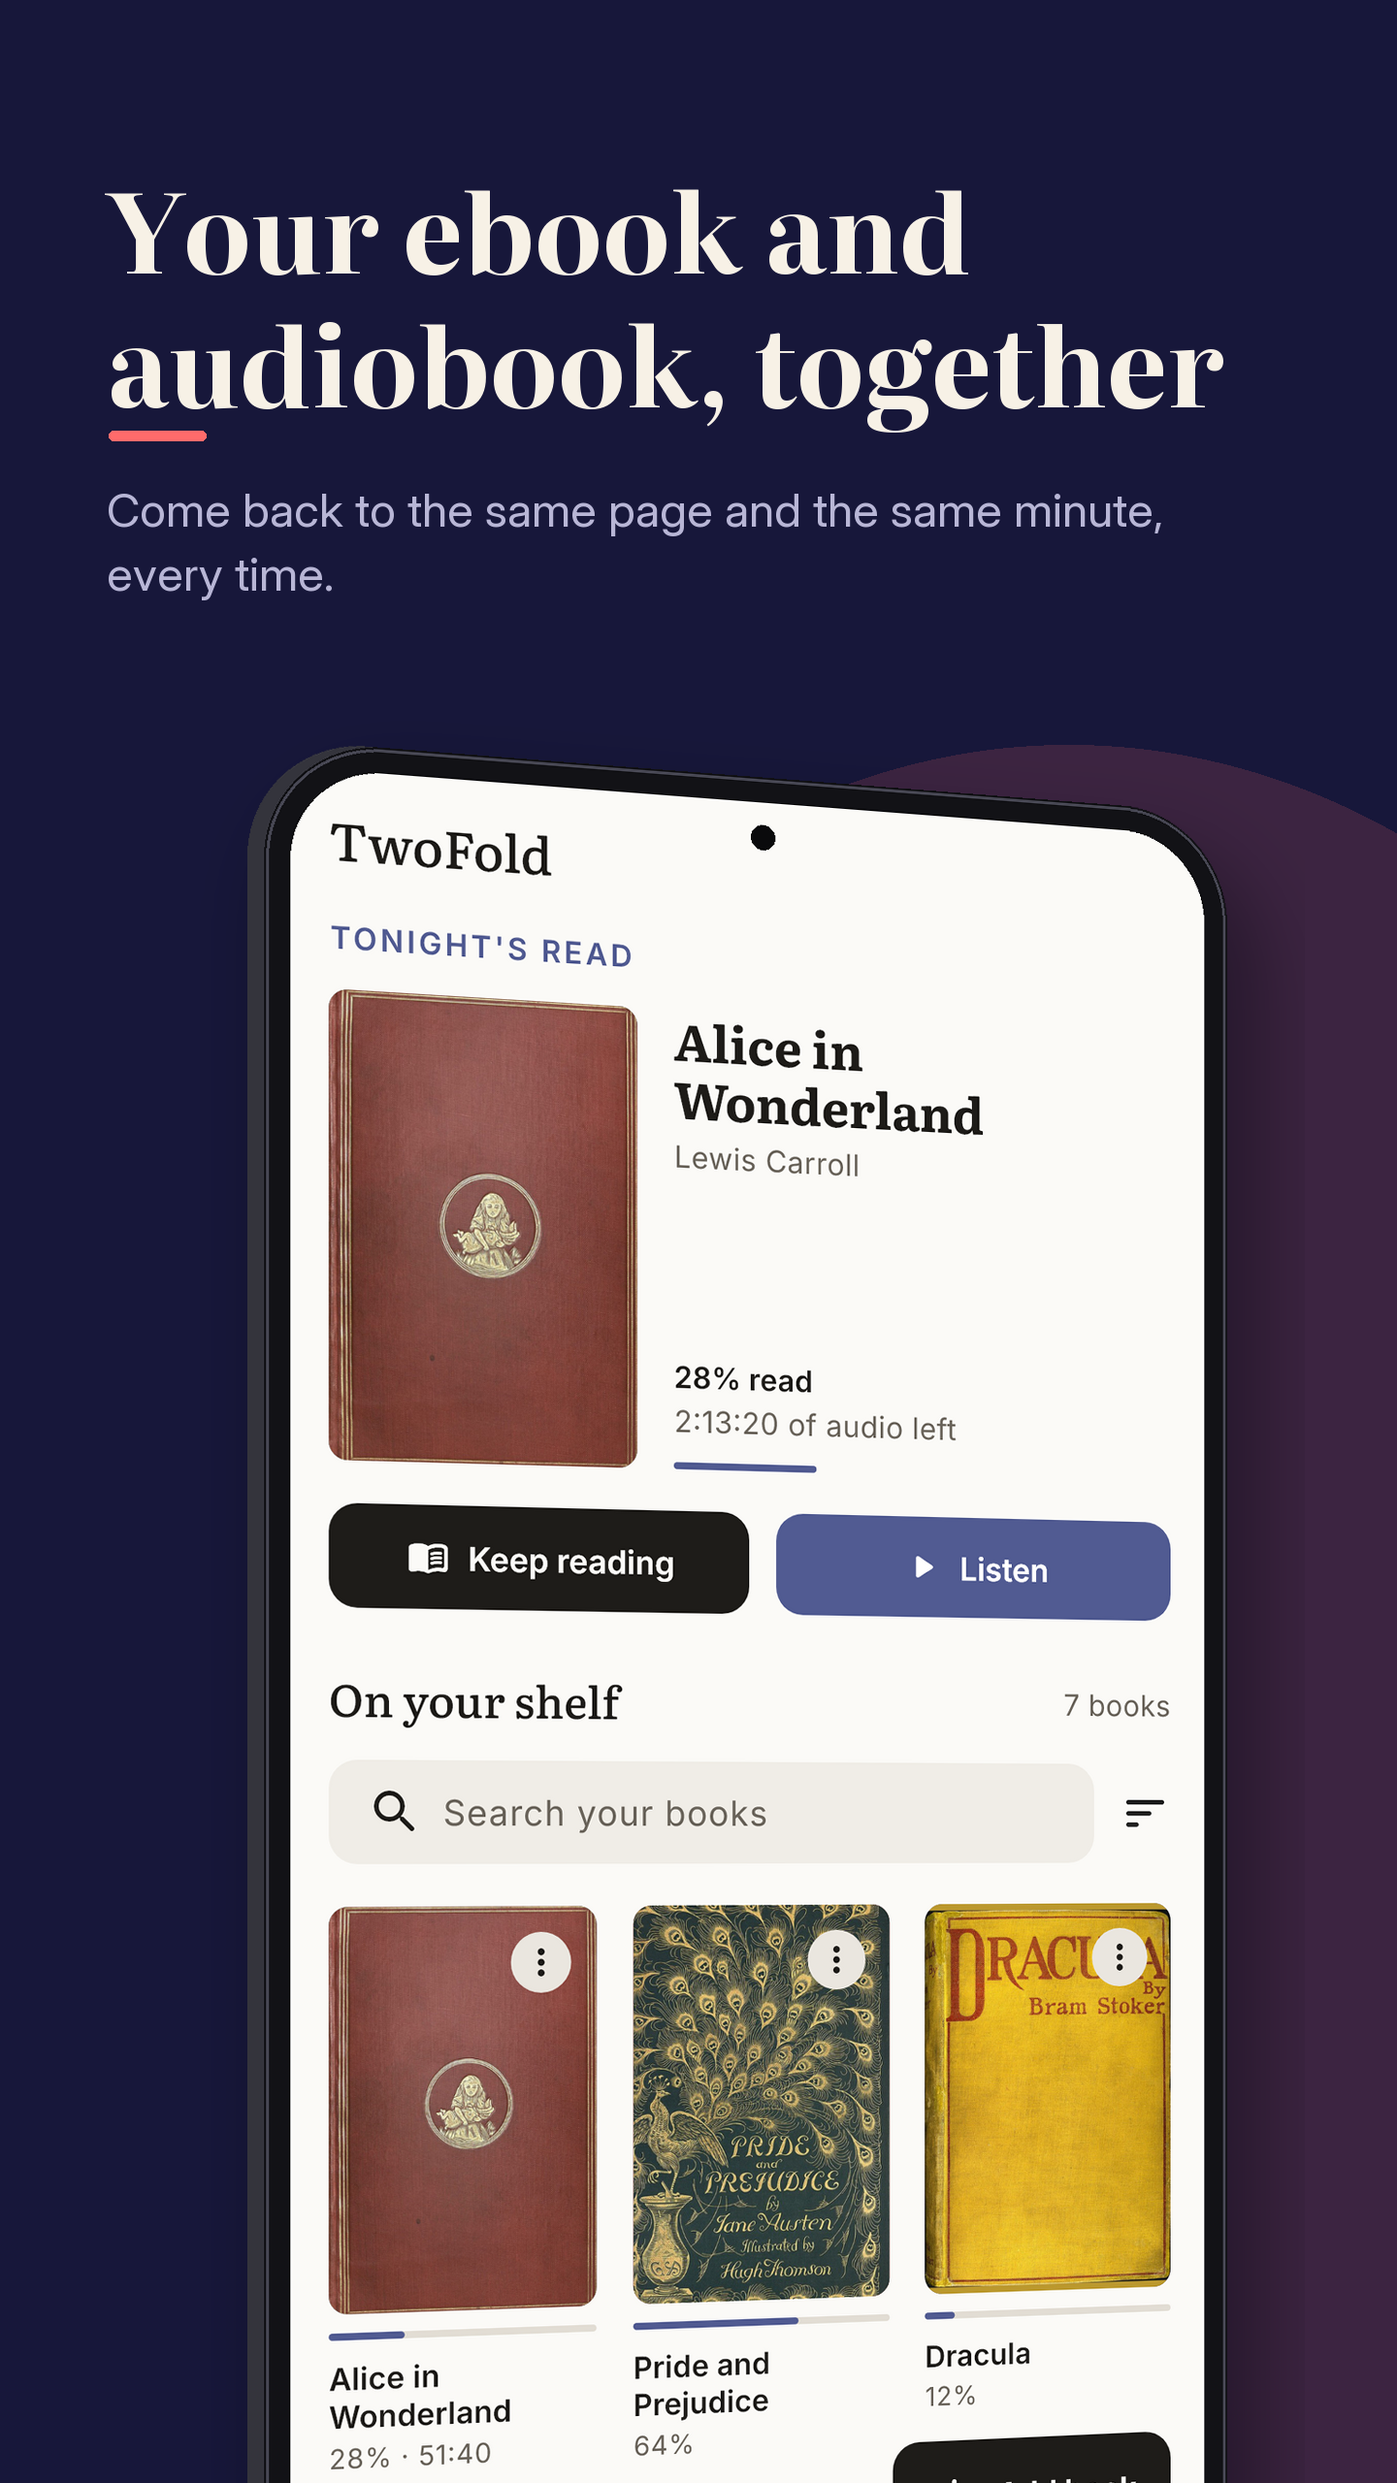
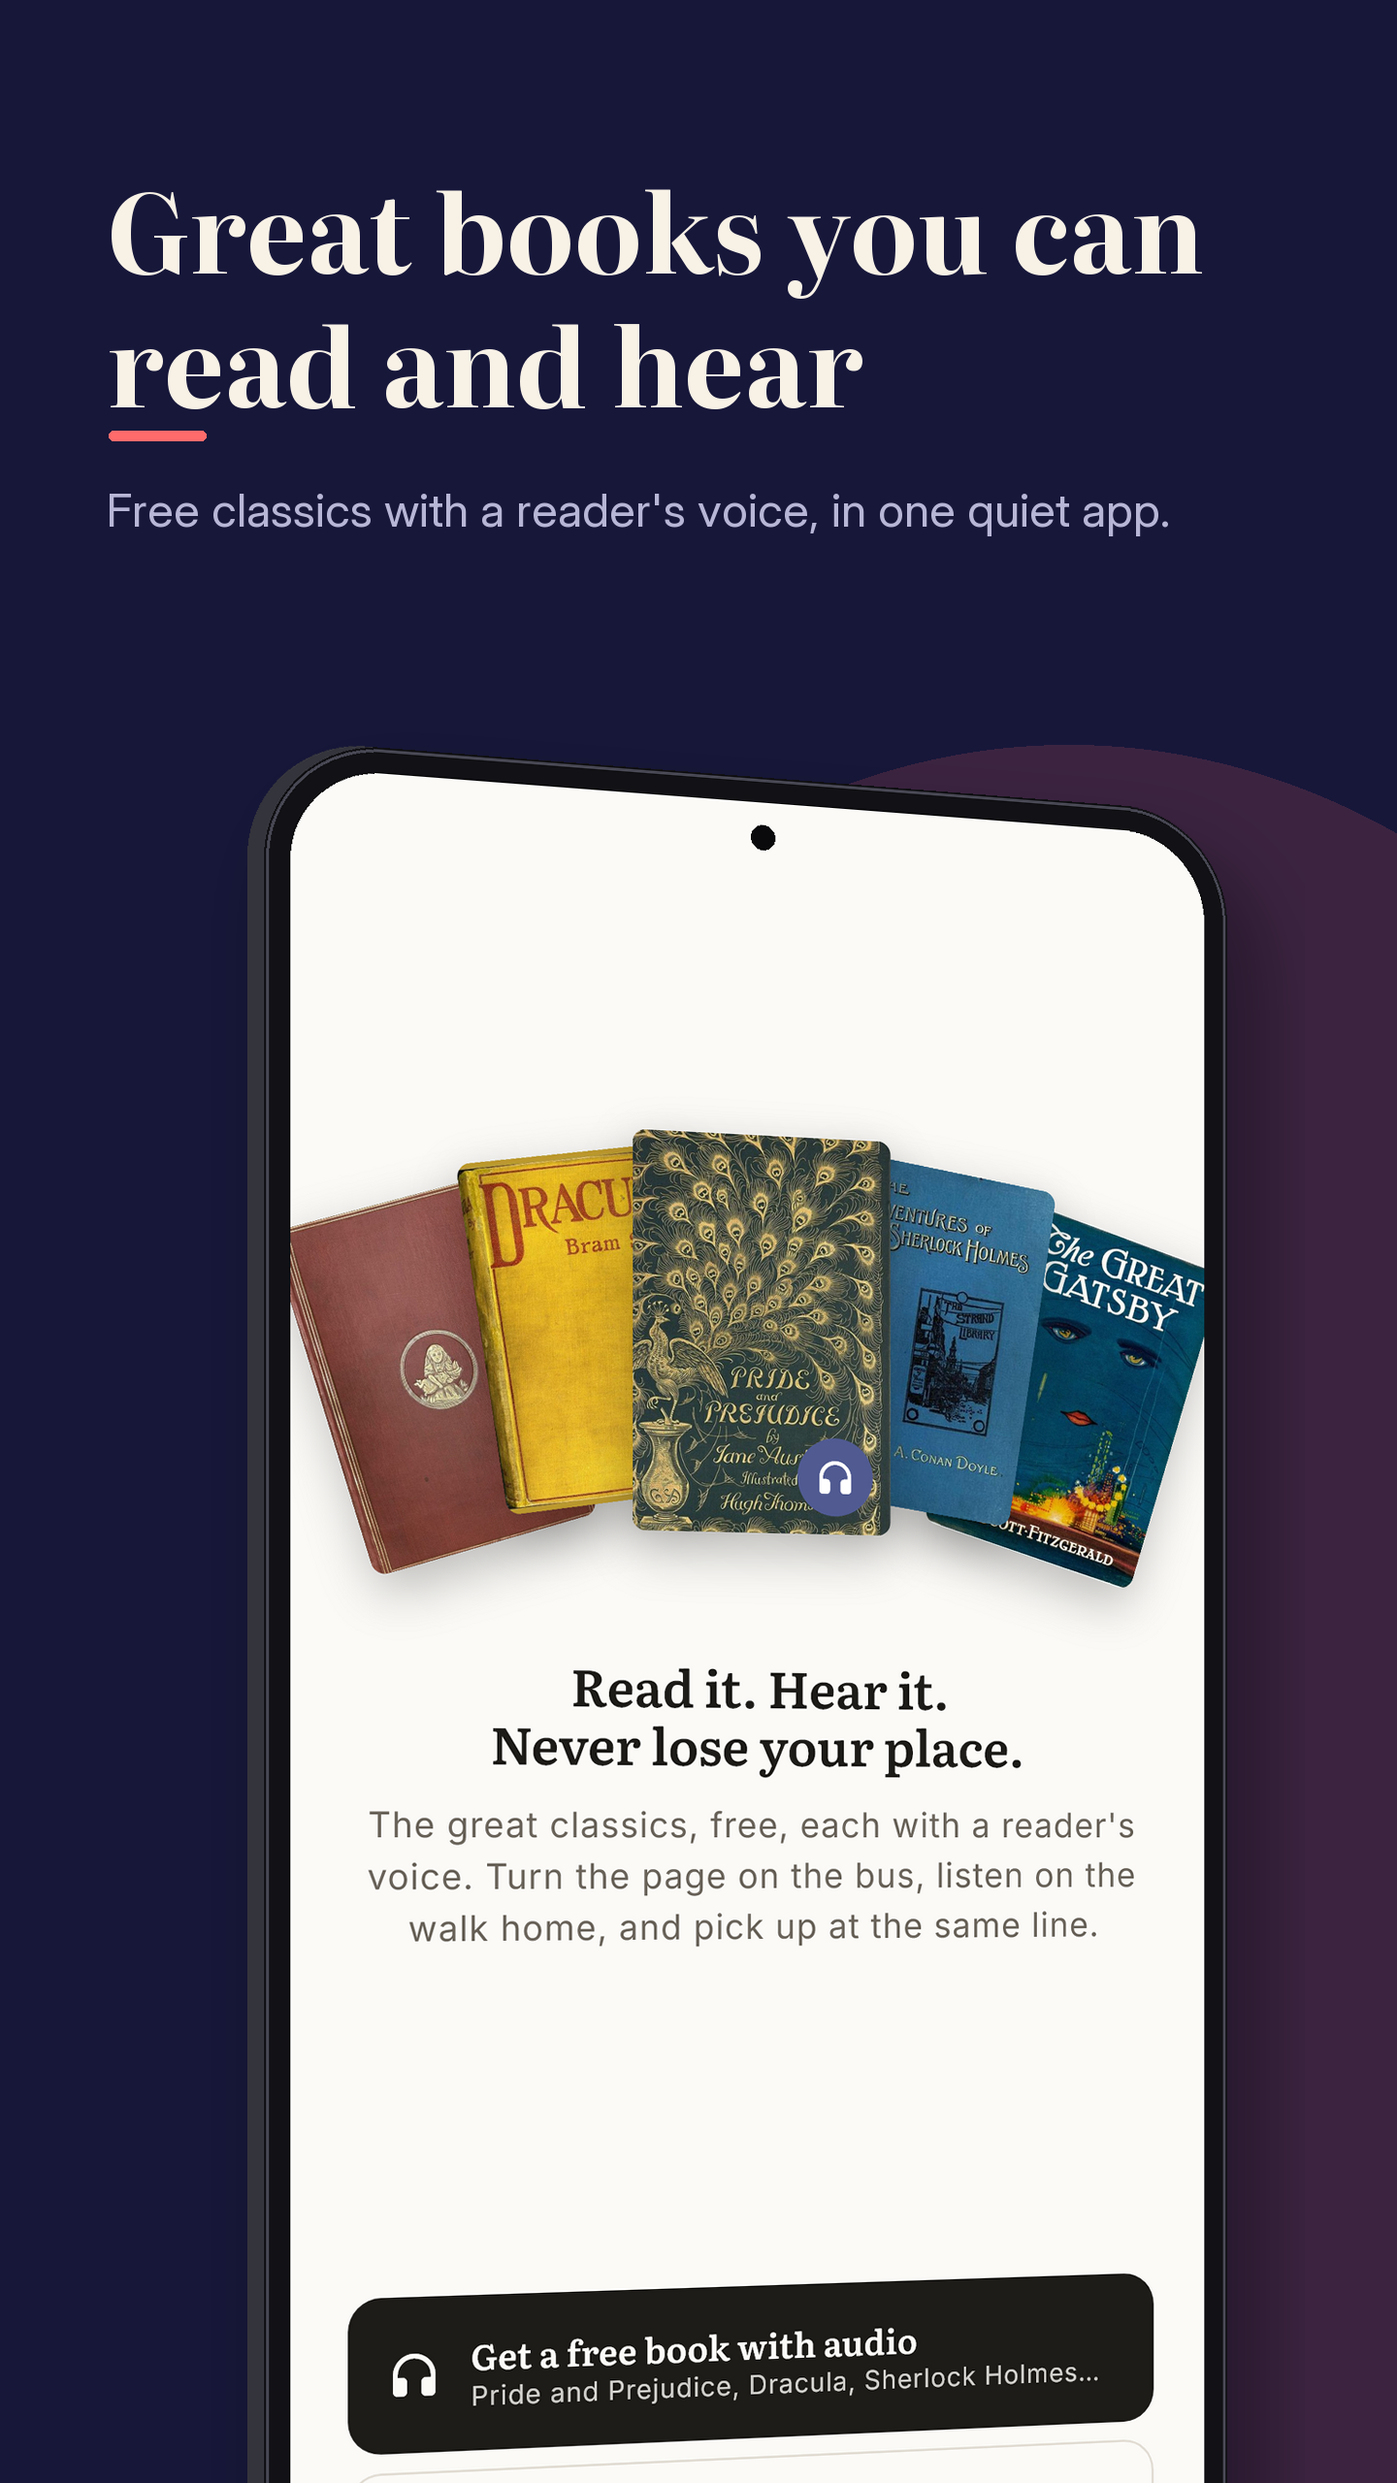
TwoFold 0.3.0 (build 5): store art, release notes

diff --git a/test/store_shots_test.dart b/test/store_shots_test.dart
@@ -22,6 +22,10 @@ import 'package:twofold/find/book_source.dart';
 import 'package:twofold/find/cover_source.dart';
 import 'package:twofold/find/find_service.dart';
 import 'package:twofold/find/web.dart';
+import 'package:twofold/find/librivox.dart';
+import 'package:twofold/find/librivox_source.dart';
+import 'package:twofold/find/everything_source.dart';
+import 'package:twofold/features/welcome/welcome_screen.dart';
 import 'package:twofold/features/listen/listen_screen.dart';
 import 'package:twofold/features/reader/reader_screen.dart';
 import 'package:twofold/features/settings/settings_screen.dart';
@@ -106,10 +110,17 @@ void main() {
         title: 'Alice in Wonderland',
         duration: const Duration(hours: 3, minutes: 5)));
 
+    final gutenberg = _ShotSource();
+    final recordings = LibrivoxSource(_FixtureWeb());
     final findService = FindService(
         web: Web(),
-        sources: [_ShotSource()],
+        sources: [
+          EverythingSource(gutenberg: gutenberg, recordings: recordings),
+          gutenberg,
+          recordings,
+        ],
         info: _ShotInfo(),
+        librivox: LibrivoxService(_FixtureWeb()),
         covers: CoverService(Web()));
     await tester.runAsync(() => repo.saveDetails(BookDetails(
           bookId: 'pride',
@@ -162,6 +173,9 @@ void main() {
       }
     }
 
+    await open(const WelcomeScreen(), ReaderTheme.paper, AppPalette.indigo);
+    await shot('welcome');
+
     await open(const HomeShell(), ReaderTheme.paper, AppPalette.indigo);
     await shot('library');
 
@@ -170,6 +184,9 @@ void main() {
 
     await open(const HomeShell(initialTab: 1), ReaderTheme.paper, AppPalette.indigo);
     await shot('find');
+    await tester.tap(find.text('Jane Austen').first);
+    await wait(20);
+    await shot('find_details');
 
     await open(const BookDetailsScreen(bookId: 'pride'), ReaderTheme.sepia,
         AppPalette.indigo);
@@ -259,6 +276,14 @@ class _ShotSource extends BookSource {
 
   @override
   Future<List<DownloadTarget>> targets(FoundBook book) async => const [];
+}
+
+/// LibriVox's saved Pride and Prejudice answer, so the book sheet shows its
+/// real recording without going online.
+class _FixtureWeb extends Web {
+  @override
+  Future<String> getText(Uri url, {int maxBytes = 4 << 20, Duration timeout = const Duration(seconds: 25)}) async =>
+      File('test/fixtures/find/librivox_pride.json').readAsStringSync();
 }
 
 class _ShotInfo extends BookInfoService {

diff --git a/lib/find/web.dart b/lib/find/web.dart
@@ -5,7 +5,7 @@ import 'dart:typed_data';
 
 /// How TwoFold introduces itself to the sites it asks. They can see who is
 /// calling, and a name and a page to read about us is the polite thing to send.
-const userAgent = 'TwoFold/0.2 (Android reader; https://github.com/ornobaadi/TwoFold)';
+const userAgent = 'TwoFold/0.3 (Android reader; https://github.com/ornobaadi/TwoFold)';
 
 /// The only sites TwoFold talks to, and the sites they send files from.
 const findHosts = {

diff --git a/lib/features/settings/settings_screen.dart b/lib/features/settings/settings_screen.dart
@@ -9,7 +9,7 @@ import '../library/providers.dart';
 import '../../audio/downloads.dart' show formatSize;
 import 'settings_sheet.dart';
 
-const appVersion = '0.2.0';
+const appVersion = '0.3.0';
 
 /// Settings for the whole app. Text options live in the reader's sheet too.
 class SettingsScreen extends ConsumerWidget {

diff --git a/tool/store_mockups.py b/tool/store_mockups.py
@@ -1,8 +1,8 @@
 """Play Store screenshots in 3D phone mockups, and the feature graphic.
 
 Run from the project folder:  python tool/store_mockups.py
-Inputs: build/mock/*.png (SHOTS=1 SHOT_SIZE=1220x2712 store_shots_test) and
-assets/screenshots/ (phone captures). Writes docs/store/mockups/.
+Inputs: build/shots/*.png (SHOTS=1 SHOT_SIZE=1220x2712 store_shots_test,
+with --update-goldens). Writes docs/store/mockups/.
 Only public domain or openly licensed books may appear in store images.
 """
 
@@ -219,9 +219,9 @@ def feature_graphic(left_screen, right_screen):
     for line in ['Read it. Hear it.', 'Never lose your place.']:
         d.text((66, y), line, font=serif(40, 500), fill=GOLD)
         y += 54
-    d.text((66, 372), 'Ebooks and audiobooks in one app,', font=sans(23, 420),
+    d.text((66, 372), 'Free classics with their audiobooks,', font=sans(23, 420),
            fill=NIGHT_MUTED)
-    d.text((66, 404), 'with thousands of free classics.', font=sans(23, 420),
+    d.text((66, 404), 'and your own books too.', font=sans(23, 420),
            fill=NIGHT_MUTED)
 
     # A fan of first-edition covers (public domain) beside the phone.
@@ -239,29 +239,27 @@ def feature_graphic(left_screen, right_screen):
 
 def main():
     os.makedirs(OUT, exist_ok=True)
-    caps = sorted(glob.glob('assets/screenshots/*.png'))
-    phone_find = repaint_now_playing(Image.open(caps[3]))
-    mock = {n: Image.open(f'build/mock/{n}.png').convert('RGB')
-            for n in ['library', 'reader', 'listen', 'places', 'details',
-                      'home_night']}
+    mock = {n: Image.open(f'build/shots/{n}.png').convert('RGB')
+            for n in ['welcome', 'find', 'find_details', 'reader', 'listen',
+                      'library', 'home_night']}
 
     slides = [
-        (mock['library'], 'Your ebook and audiobook, together',
-         'Come back to the same page and the same minute, every time.', True),
-        (mock['reader'], 'Read with the audio at hand',
-         'Play, skip and scrub without leaving the page.', False),
-        (mock['listen'], 'A proper audiobook player',
-         'Chapters, speed, a sleep timer and lock screen controls.', False),
-        (phone_find, 'Thousands of free classics',
-         'Project Gutenberg, the Internet Archive, Wikisource and Unglue.it.',
-         True),
-        (mock['details'], 'Everything about the book',
-         'Ratings, descriptions and subjects from Open Library, kept with it.',
+        (mock['welcome'], 'Great books you can read and hear',
+         "Free classics with a reader's voice, in one quiet app.", True),
+        (mock['find'], 'Thousands of free classics',
+         'Search Project Gutenberg, LibriVox and the Internet Archive at once.',
          False),
-        (mock['places'], 'Save a place, keep the minute',
-         'Each place you save holds the page and the second of audio.', True),
+        (mock['find_details'], 'The book and its audiobook, in one tap',
+         'Plays straight away. Downloads for offline on Wi-Fi.', True),
+        (mock['reader'], 'Read with the audio at hand',
+         'Switch between Read and Listen. The page and the minute stay put.',
+         False),
+        (mock['listen'], 'A proper audiobook player',
+         'Chapters, speed, a sleep timer and lock screen controls.', True),
+        (mock['library'], 'Right where you left off',
+         'Your shelf remembers the page and the second, every time.', False),
         (mock['home_night'], 'Easy on the eyes at night',
-         'Paper, Sepia and Night, with five quiet accent colours.', False),
+         'Paper, Sepia and Night, with five quiet accent colours.', True),
     ]
     for i, (shot, title, sub, dark) in enumerate(slides, 1):
         slide(shot, title, sub, dark, flip=i % 2 == 0).save(

diff --git a/docs/release-guide.md b/docs/release-guide.md
@@ -32,7 +32,7 @@ flutter clean
 flutter build appbundle --release
 ```
 
-Output: `build/app/outputs/bundle/release/app-release.aab`. Every later upload needs a higher number after the `+` in `pubspec.yaml` (`0.2.0+4`), and update `appVersion` in `settings_screen.dart` when the first part changes.
+Output: `build/app/outputs/bundle/release/app-release.aab`. Every later upload needs a higher number after the `+` in `pubspec.yaml` (`0.3.0+5`), and update `appVersion` in `settings_screen.dart` when the first part changes.
 
 ## 4. Host the privacy policy
 
@@ -53,7 +53,7 @@ App name `TwoFold: Ebook & Audiobook`, type App, Free, default language English.
 | Data safety | Collects no data; shares no data. See below |
 | Foreground service | Media playback. See below |
 
-**Data safety:** TwoFold has no server and keeps the library on the phone. Since 0.2.0 it does send some things off the phone, straight to the sites the user picks: search words, the chosen book, and a book's title and author to Open Library for details and covers. Read Google's current definitions of "collected" (sent off the device) and "shared" before answering, and do not answer "no internet use". A careful, accurate answer:
+**Data safety:** TwoFold has no server and keeps the library on the phone. Since 0.2.0 it does send some things off the phone, straight to the sites the user picks: search words, the chosen book, and a book's title and author to Open Library for details and covers, and (since 0.3.0) book titles to LibriVox, with audio streamed and downloaded from archive.org and cover pictures fetched from Gutenberg and archive.org. Read Google's current definitions of "collected" (sent off the device) and "shared" before answering, and do not answer "no internet use". A careful, accurate answer:
 
 - **Data collected:** Yes. "App activity → Other user-generated content" or "In-app search history" (search words and book titles), **not stored by the developer, sent directly to the book sites the user chooses, processed ephemerally**, purpose **App functionality**, **optional** (only when the user uses Find, Look up details or Choose a cover).
 - **Data shared:** No. TwoFold doesn't hand data to third parties; the user's phone talks to the site they picked, the way a browser does.
@@ -73,7 +73,7 @@ If Play's wording treats direct requests to third-party sites as not collected, 
 
 ## 7. Release to production
 
-Create the release with the notes in `docs/play-store.md` ("Release notes for 0.2.0"), or for a first production release: "First release of TwoFold: read and listen to your books, find free classics, and always return to the same page and minute." Roll out, then check Pre-launch report and Android vitals for crashes.
+Create the release with the notes in `docs/play-store.md` ("Release notes for 0.3.0"), or for a first production release: "First release of TwoFold: read and listen to your books, find free classics, and always return to the same page and minute." Roll out, then check Pre-launch report and Android vitals for crashes.
 
 ## After launch
 

diff --git a/CLAUDE.md b/CLAUDE.md
@@ -119,6 +119,7 @@ Testing: unit tests for repo and skip/clamp-across-tracks logic, widget tests fo
 
 Every change to the project gets a line here: date, what, why.
 
+- 2026-11-11 — Release prep for 0.3.0 (build 5): version, Settings version and User-Agent bumped; release notes in `docs/play-store.md`; release guide's Data safety note names LibriVox, archive.org audio and cover pictures. New store art: `store_shots_test` renders the welcome, Find front page and the Pride and Prejudice sheet with its recording (from the saved LibriVox answer, no network); `tool/store_mockups.py` now reads `build/shots` and makes 7 slides (welcome, Find, book + audiobook, Read | Listen, Listen, shelf, Night) plus a new feature graphic line. Only public domain covers appear. Not tried on a phone.
 - 2026-11-11 — Settings footer set in Literata (the book face), as the user's other apps use their primary font for the sign-off: 11.5 sp serif capitals, wider spacing.
 - 2026-11-11 — Reader: the Listen tool in the bottom row is gone (user: it did the same as the top switch). The Read | Listen switch at the top is the one way between the two; its Listen side shows a live sound-wave mark while the book plays, so reading never hides that audio is running. The bottom row holds only reading tools (Contents, Search, My places, Text). Not tried on a phone.
 - 2026-11-11 — Redesign polish from the user's phone screenshots: welcome centred with five fanned first-edition covers and the choices at the bottom; Find without the rule and the line under the search box, classics with real bundled covers (Gatsby replaces Treasure Island and The Time Machine, which have no bundled cover), result rows and the book sheet with real cover pictures, browse lists as cloth-coloured cards with emblems, a bigger cover on the book sheet; home's featured book has its progress and audio right under the author instead of after a gap. Not tried on a phone.

diff --git a/docs/play-store.md b/docs/play-store.md
@@ -68,6 +68,22 @@ ebook reader, audiobook player, epub reader, pdf reader, read and listen, m4b pl
 - **Contact email:** ornobaadi.dev@gmail.com
 - **Price:** Free. A paid app can't later be made free in reverse, and free can't later become paid, so decide before publishing.
 
+## Release notes for 0.3.0 (build 5)
+
+Paste into **Release > What's new in this release** (500 characters max; this is 464):
+
+```
+• Free audiobooks: classics come with a LibriVox recording
+• Get the book and its audiobook in one tap
+• Plays straight away, downloads for offline on Wi-Fi
+• One search for Gutenberg, LibriVox and the Internet Archive
+• Real covers, and lists to browse: Mystery, Romance and more
+• Filter by length, one reader, or not yet on your shelf
+• Read | Listen switch at the top of every book
+• Shelf filters: With audio, Downloaded
+• A new welcome for first-time readers
+```
+
 ## Release notes for 0.2.0 (build 4)
 
 Paste into **Release > What's new in this release** (500 characters max; this is 451):
